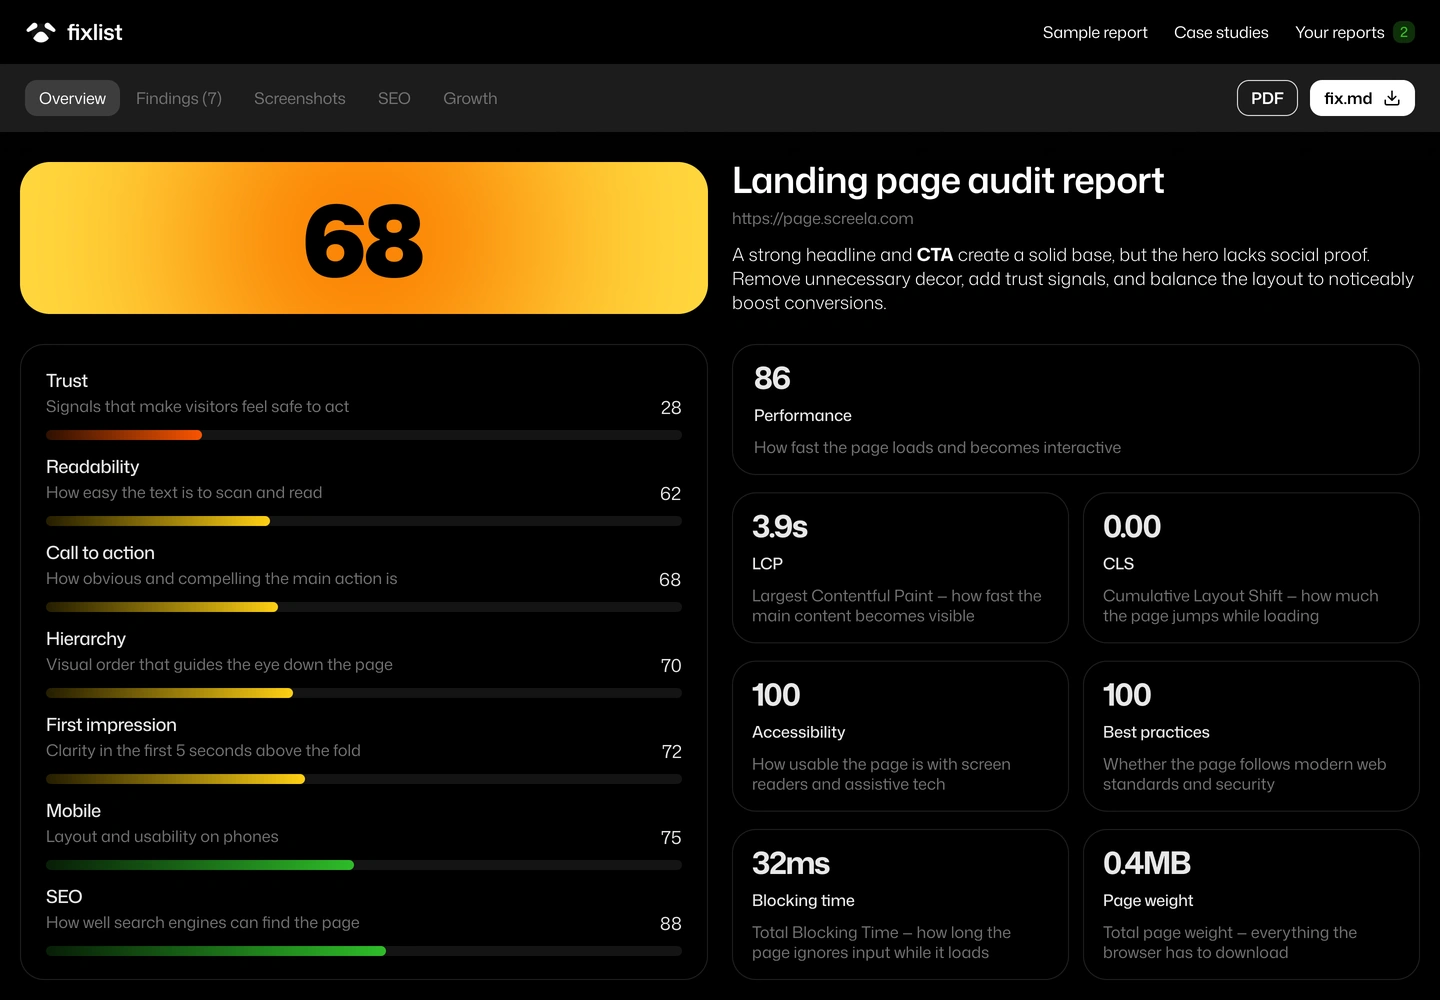
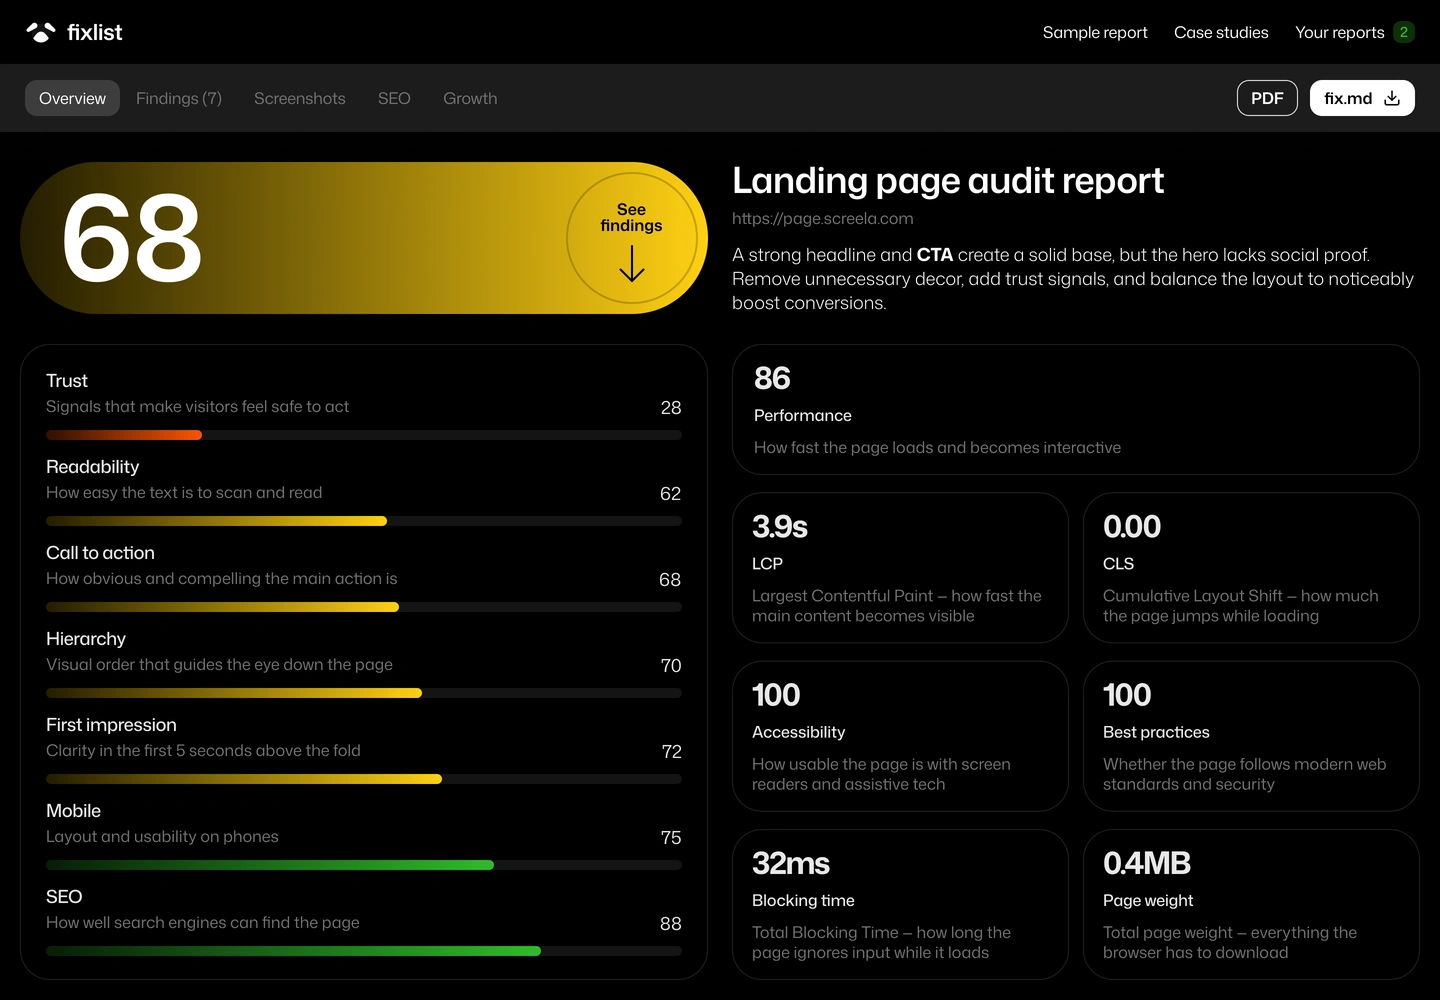
Retarget hero project-3 to fixlist, refresh its screenshots
The homepage hero's third project slot showed Control Panel Payment;
it now shows fixlist.dev, matching the case's own updated shots
(img-3 and img-4 refreshed with the current score-badge design).

All three hero shots for this slot are dark now, so the plain black
cast shadow read as a second dark rectangle stacked behind the card —
same problem the first two projects already had a fix for. Extended
that fix (tinted with --hero-blue instead of black) to data-project='2'
instead of leaving it on the shadow meant for a light screenshot.

diff --git a/src/components/hero.css b/src/components/hero.css
@@ -139,21 +139,24 @@
   box-shadow: -14px 0 44px rgba(0, 0, 0, 0.26), 0 0 0 1px var(--hero-blue);
 }
 
-/* Projects 1 and 2 (0-indexed: 0, 1) run dark shots — a black cast shadow
-   read as a second dark rectangle stacked behind the card. Tinted with the
-   brand blue instead so it reads as a shadow, not another screenshot. */
+/* All three projects run dark shots now — a black cast shadow reads as a
+   second dark rectangle stacked behind the card. Tinted with the brand blue
+   instead so it reads as a shadow, not another screenshot. */
 .hero-media-card[data-project='0'][data-slot='0'],
-.hero-media-card[data-project='1'][data-slot='0'] {
+.hero-media-card[data-project='1'][data-slot='0'],
+.hero-media-card[data-project='2'][data-slot='0'] {
   box-shadow: -24px 0 64px color-mix(in srgb, var(--hero-blue) 19%, transparent);
 }
 
 .hero-media-card[data-project='0'][data-slot='1'],
-.hero-media-card[data-project='1'][data-slot='1'] {
+.hero-media-card[data-project='1'][data-slot='1'],
+.hero-media-card[data-project='2'][data-slot='1'] {
   box-shadow: -18px 0 52px color-mix(in srgb, var(--hero-blue) 17%, transparent), 0 0 0 1px var(--hero-blue);
 }
 
 .hero-media-card[data-project='0'][data-slot='2'],
-.hero-media-card[data-project='1'][data-slot='2'] {
+.hero-media-card[data-project='1'][data-slot='2'],
+.hero-media-card[data-project='2'][data-slot='2'] {
   box-shadow: -14px 0 44px color-mix(in srgb, var(--hero-blue) 14%, transparent), 0 0 0 1px var(--hero-blue);
 }
 

diff --git a/src/data/case-fixlist.ts b/src/data/case-fixlist.ts
@@ -103,11 +103,11 @@ export const fixlist: CaseStudy = {
     {
       type: 'image',
       src: `${SHOT}/img-3.webp`,
-      alt: 'A single finding card next to its number on the marked-up screenshot',
+      alt: 'Two finding cards next to their numbers on the marked-up screenshot',
       w: 1440,
-      h: 603,
+      h: 1205,
       caption:
-        'One finding, one place on the page. The number on the card matches the number on the screenshot, so the report never asks you to take its word for where the problem is.',
+        'Every finding, one place on the page. The number on the card matches the number on the screenshot, so the report never asks you to take its word for where the problem is.',
     },
     { type: 'break' },
 

diff --git a/src/data/content.ts b/src/data/content.ts
@@ -121,7 +121,7 @@ export const ndaWork = [
  * indexing into the list meant every new case at the top silently relabelled
  * somebody else's screenshots.
  */
-const heroShotOwners = ['trade-scope', 'brokerage-crm', 'control-panel'];
+const heroShotOwners = ['trade-scope', 'brokerage-crm', 'fixlist'];
 
 const titleOf = (slug: string) => cases.find((c) => c.slug === slug)?.title ?? '';
 
